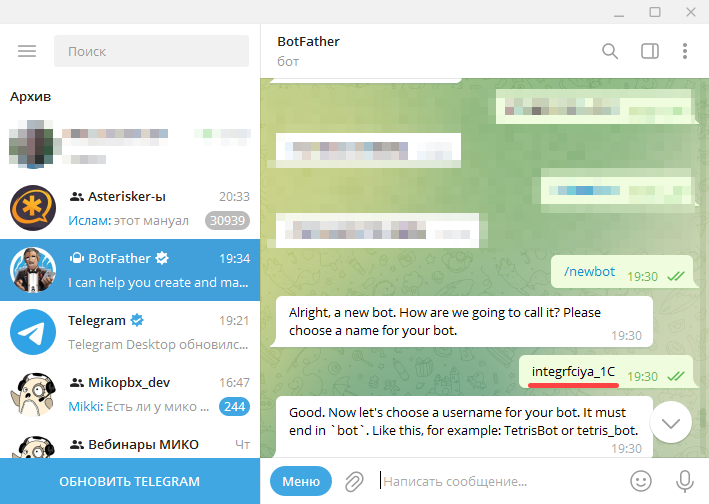
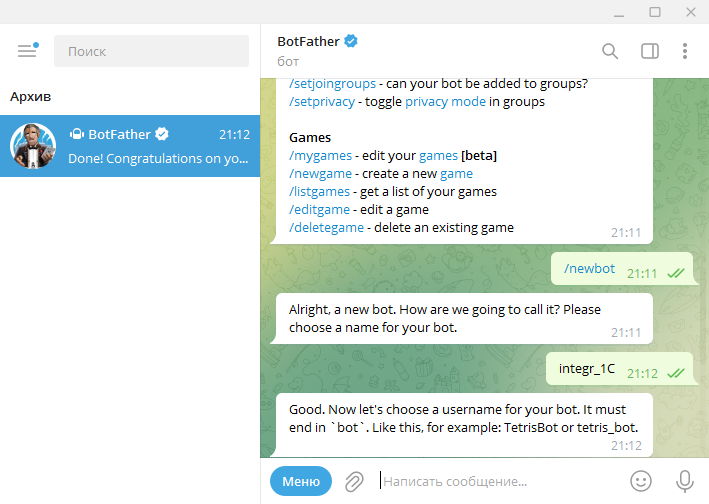
Создал раздел по использованию чатов через телеграм. Корректировал раздел по подключению интеграции с телеграм.

diff --git a/src/user-guides/telegram/ispolzovanie.md b/src/user-guides/telegram/ispolzovanie.md
@@ -1,0 +1,35 @@
+---
+label: Использование
+order: -2
+icon: paper-airplane
+---
+
+1. Клиенту нужно в приложении Telegram найти вашего бота по уникальному имени бота. <br>
+В нашем примере это - **integr_1C_bot**.
+
+<img class="miko-shadow"  
+    src="/assets/user-guides/telegram/ispolz_0.jpg"
+    alt="МИКО: поиск бота по его уникальному имени"
+/> 
+
+2. Нажать **Старт**.
+
+<img class="miko-shadow"  
+    src="/assets/user-guides/telegram/ispolz_1.jpg"
+    alt="МИКО: запуск бота"
+/> 
+
+3. Отправить сообщение. Оно придет в очередь сотрудникам.
+
+<img class="miko-shadow play-on-hover"  
+    src="/assets/user-guides/telegram/ispolz_0.gif"
+    alt="МИКО: начало диалога в чате телеграм"
+/>
+
+4. Начнется диалог с клиентом.
+
+<img class="miko-shadow"  
+    src="/assets/user-guides/telegram/ispolz_2.jpg"
+    alt="МИКО: начало диалога в чате телеграм"
+/> 
+

diff --git a/src/user-guides/telegram/podkluchenie.md b/src/user-guides/telegram/podkluchenie.md
@@ -19,8 +19,8 @@ icon: paper-airplane
     alt="МИКО: создание бота в телеграм"
 /> 
 
-3. Укажите имя бота. По нему клиенты смогут обратиться к вашей компании через Telegram. <br>
-В нашем примере это - **integrfciya_1C**.
+3. Укажите имя бота.<br>
+В нашем примере это - **integr_1C**.
 
 <img class="miko-shadow"  
     src="/assets/user-guides/telegram/sozd_bot_1.png"
@@ -29,7 +29,7 @@ icon: paper-airplane
 
 4. Далее укажите уникальное имя вашего бота (@username), на основании которого будет сформирована ссылка на вашего бота. <br>
 Имя должно оканчиваться на **bot**. <br>
-В нашем случае уникальное имя бота - **integrfciya_1C_bot**.
+В нашем случае уникальное имя бота - **integr_1C_bot**.
 
 <img class="miko-shadow"  
     src="/assets/user-guides/telegram/sozd_bot_2.png"

diff --git a/src/user-guides/telegram/index.md b/src/user-guides/telegram/index.md
@@ -4,3 +4,4 @@ order: -2
 ---
 # Мессенджер Telegram
 [!ref](podkluchenie)
+[!ref](ispolzovanie)
